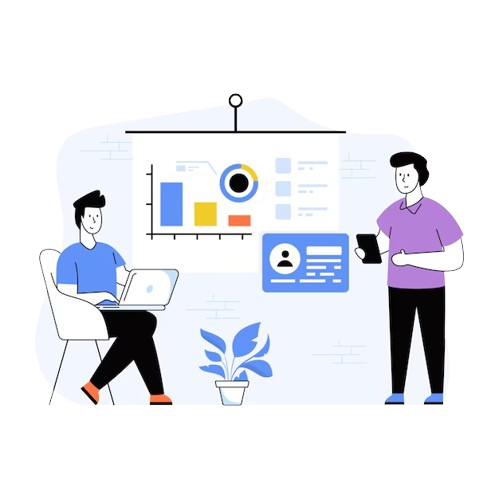
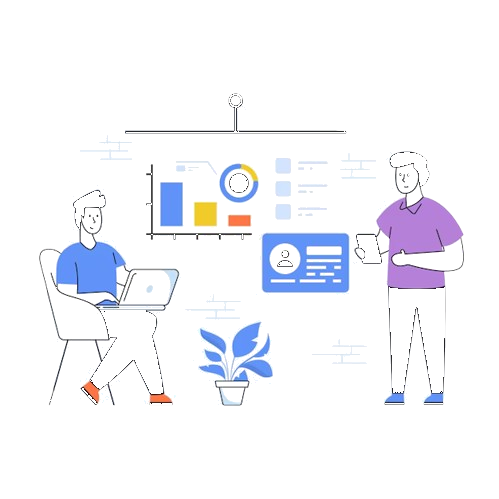
Refactor About and Overview sections to improve visual consistency and responsiveness. Update image sources and styles for better alignment with branding. Enhance CSS for new visual elements and adjust layout for improved user experience across devices.

diff --git a/public/assets/css/ogaalsan-home.css b/public/assets/css/ogaalsan-home.css
@@ -980,10 +980,170 @@ html[data-theme="dark"] .services-area-two .services-item-two:hover .services-co
 }
 
 /* Overview — ICT illustration */
-.overview-img-wrap--illustration img {
+.ogaalsan-overview-visual,
+.ogaalsan-about-visual {
+  position: relative;
+  display: flex;
+  align-items: center;
+  justify-content: center;
+  min-height: 420px;
+  padding: 20px 0 30px;
+}
+
+.ogaalsan-overview-visual__glow,
+.ogaalsan-about-visual__glow {
+  position: absolute;
+  inset: 6% 0 8%;
+  margin: 0 auto;
+  width: min(92%, 620px);
+  aspect-ratio: 1;
+  background: radial-gradient(
+    circle,
+    rgba(63, 169, 245, 0.22) 0%,
+    rgba(63, 169, 245, 0.08) 45%,
+    rgba(63, 169, 245, 0) 72%
+  );
+  border-radius: 50%;
+  pointer-events: none;
+  z-index: 0;
+}
+
+.ogaalsan-overview-visual__img,
+.ogaalsan-about-visual__img {
+  position: relative;
+  z-index: 1;
   width: 100%;
-  max-width: 580px;
+  max-width: 700px;
   height: auto !important;
-  border-radius: 0;
   object-fit: contain;
+  display: block;
+  margin: 0 auto;
+}
+
+.overview-img-wrap--illustration img,
+.about-img-seven-wrap--illustration img {
+  border-radius: 0;
+}
+
+.about-img-seven-wrap--illustration {
+  padding-bottom: 24px;
+}
+
+.ogaalsan-about-visual__badge.experience-wrap {
+  right: 12px;
+  bottom: 0;
+  min-height: auto;
+  max-width: 150px;
+  padding: 18px 14px;
+  border: none;
+  border-radius: 16px;
+  box-shadow: 0 14px 36px rgba(34, 66, 143, 0.2);
+}
+
+.ogaalsan-about-visual__badge.experience-wrap .title {
+  font-size: 44px;
+  margin-bottom: 6px;
+}
+
+.ogaalsan-about-visual__badge.experience-wrap p {
+  font-size: 15px;
+  line-height: 1.3;
+}
+
+.ogaalsan-overview-visual__icon.icon {
+  right: 24px;
+  top: 24px;
+  width: 88px;
+  height: 88px;
+  font-size: 42px;
+  box-shadow: 0 12px 28px rgba(34, 66, 143, 0.18);
+}
+
+.ogaalsan-about-content .section-title .sub-title,
+.ogaalsan-about-content .section-title .title {
+  margin-bottom: 0;
+}
+
+.ogaalsan-about-content > p {
+  color: #4a5b73;
+  line-height: 1.75;
+}
+
+.ogaalsan-about-pillars .list-wrap {
+  gap: 16px;
+}
+
+.ogaalsan-about-pillars .list-wrap li {
+  flex: 1 1 calc(50% - 8px);
+  min-width: 0;
+  background: linear-gradient(135deg, #f8faff 0%, #ffffff 100%);
+  border: 1px solid rgba(63, 169, 245, 0.16);
+  box-shadow: 0 10px 28px rgba(34, 66, 143, 0.07);
+  padding: 22px 18px;
+  border-radius: 14px;
+}
+
+.ogaalsan-about-pillars .list-wrap li .content .count {
+  font-size: 28px;
+  color: #22428f;
+  margin-bottom: 4px;
+}
+
+.ogaalsan-about-pillars .list-wrap li .content p {
+  margin-bottom: 0;
+  color: #4a5b73;
+  font-size: 14px;
+}
+
+.ogaalsan-about-content .info-two {
+  color: #4a5b73;
+  line-height: 1.75;
+}
+
+html[data-theme="dark"] .ogaalsan-about-pillars .list-wrap li {
+  background: linear-gradient(135deg, #152033 0%, #121a2a 100%);
+  border-color: rgba(63, 169, 245, 0.22);
+  box-shadow: 0 10px 28px rgba(0, 0, 0, 0.28);
+}
+
+html[data-theme="dark"] .ogaalsan-about-pillars .list-wrap li .content .count {
+  color: #7ec8f8;
+}
+
+html[data-theme="dark"] .ogaalsan-about-content > p,
+html[data-theme="dark"] .ogaalsan-about-content .info-two,
+html[data-theme="dark"] .ogaalsan-about-pillars .list-wrap li .content p {
+  color: #c8d4e8 !important;
+}
+
+@media (max-width: 991px) {
+  .ogaalsan-overview-visual__img,
+  .ogaalsan-about-visual__img {
+    max-width: 560px;
+  }
+
+  .ogaalsan-about-visual__badge.experience-wrap {
+    right: 50%;
+    transform: translateX(50%);
+    bottom: -8px;
+  }
+}
+
+@media (max-width: 575px) {
+  .ogaalsan-overview-visual__img,
+  .ogaalsan-about-visual__img {
+    max-width: 100%;
+  }
+
+  .ogaalsan-about-pillars .list-wrap li {
+    flex: 1 1 100%;
+  }
+
+  .ogaalsan-overview-visual__icon.icon {
+    width: 72px;
+    height: 72px;
+    font-size: 34px;
+    right: 12px;
+    top: 12px;
+  }
 }

diff --git a/pages/about.js b/pages/about.js
@@ -11,41 +11,22 @@ export default function About() {
             <div className="container">
               <div className="row align-items-center justify-content-center">
                 <div className="col-lg-6 col-md-9 order-0 order-lg-2">
-                  <div className="about-img-seven-wrap">
+                  <div className="about-img-seven-wrap about-img-seven-wrap--illustration ogaalsan-about-visual">
+                    <div className="ogaalsan-about-visual__glow" aria-hidden="true" />
                     <Image
-                      src="/assets/img/ogalsan/person.jpg"
-                      alt=""
-                      width={600}
-                      height={800}
-                      style={{ maxWidth: "100%", height: "auto" }}
+                      src="/assets/img/images/about.png"
+                      alt="About OgaalSan Consultancy"
+                      width={760}
+                      height={760}
+                      className="ogaalsan-about-visual__img"
                       data-aos="fade-right"
                       data-aos-delay={0}
                       loading="lazy"
                     />
-                    <Image
-                      src="/assets/img/ogalsan/creative.jpg"
-                      alt=""
-                      width={300}
-                      height={400}
-                      style={{ maxWidth: "300px", height: "auto" }}
-                      data-aos="fade-up"
-                      data-aos-delay={300}
-                      loading="lazy"
-                    />
-                    <Image
-                      src="/assets/img/images/inner_about_shape01.png"
-                      alt=""
-                      width={200}
-                      height={200}
-                      className="shape"
-                      data-aos="zoom-in"
-                      data-aos-delay={500}
-                      loading="lazy"
-                    />
                     <div
-                      className="experience-wrap"
-                      data-aos="fade-left"
-                      data-aos-delay={0}
+                      className="experience-wrap ogaalsan-about-visual__badge"
+                      data-aos="fade-up"
+                      data-aos-delay={200}
                     >
                       <h2 className="title">3</h2>
                       <p>Core Service Areas</p>
@@ -53,7 +34,7 @@ export default function About() {
                   </div>
                 </div>
                 <div className="col-lg-6">
-                  <div className="about-content-seven">
+                  <div className="about-content-seven ogaalsan-about-content">
                     <div className="section-title mb-30">
                       <span className="sub-title">Who We Are</span>
                       <h2 className="title">
@@ -70,7 +51,7 @@ export default function About() {
                       thrive in an increasingly digital and
                       knowledge-driven economy.
                     </p>
-                    <div className="success-wrap-two">
+                    <div className="success-wrap-two ogaalsan-about-pillars">
                       <ul className="list-wrap">
                         <li>
                           <div className="icon">

diff --git a/components/sections/home/About.js b/components/sections/home/About.js
@@ -7,41 +7,22 @@ export default function About() {
       <div className="container">
         <div className="row align-items-center justify-content-center">
           <div className="col-lg-6 col-md-9 order-0 order-lg-2">
-            <div className="about-img-seven-wrap">
+            <div className="about-img-seven-wrap about-img-seven-wrap--illustration ogaalsan-about-visual">
+              <div className="ogaalsan-about-visual__glow" aria-hidden="true" />
               <Image
-                src="/assets/img/ogalsan/person.jpg"
-                alt=""
-                width={600}
-                height={365}
-                style={{ maxWidth: "100%", height: "auto", objectFit: "cover" }}
+                src="/assets/img/images/about.png"
+                alt="About OgaalSan Consultancy"
+                width={760}
+                height={760}
+                className="ogaalsan-about-visual__img"
                 data-aos="fade-right"
                 data-aos-delay={0}
                 loading="lazy"
               />
-              <Image
-                src="/assets/img/ogalsan/creative.jpg"
-                alt=""
-                width={300}
-                height={200}
-                style={{ maxWidth: "300px", height: "auto", objectFit: "cover" }}
-                data-aos="fade-up"
-                data-aos-delay={300}
-                loading="lazy"
-              />
-              <Image
-                src="/assets/img/images/inner_about_shape01.png"
-                alt=""
-                width={200}
-                height={200}
-                className="shape"
-                data-aos="zoom-in"
-                data-aos-delay={500}
-                loading="lazy"
-              />
               <div
-                className="experience-wrap"
-                data-aos="fade-left"
-                data-aos-delay={0}
+                className="experience-wrap ogaalsan-about-visual__badge"
+                data-aos="fade-up"
+                data-aos-delay={200}
               >
                 <h2 className="title">3</h2>
                 <p>Core Service Areas</p>
@@ -49,7 +30,7 @@ export default function About() {
             </div>
           </div>
           <div className="col-lg-6">
-            <div className="about-content-seven">
+            <div className="about-content-seven ogaalsan-about-content">
               <div className="section-title mb-30">
                 <Link href="/about" className="sub-title">
                   About
@@ -68,7 +49,7 @@ export default function About() {
                 thrive in an increasingly digital and
                 knowledge-driven economy.
               </p>
-              <div className="success-wrap-two">
+              <div className="success-wrap-two ogaalsan-about-pillars">
                 <ul className="list-wrap">
                   <li>
                     <div className="icon">

diff --git a/components/sections/home/Overview.js b/components/sections/home/Overview.js
@@ -9,20 +9,17 @@ export default function Overview() {
                 <div className="container">
                     <div className="row align-items-center justify-content-center">
                         <div className="col-lg-6 col-md-10">
-                            <div className="overview-img-wrap overview-img-wrap--illustration">
+                            <div className="overview-img-wrap overview-img-wrap--illustration ogaalsan-overview-visual">
+                                <div className="ogaalsan-overview-visual__glow" aria-hidden="true" />
                                 <Image
                                     src="/assets/img/images/ict.png"
                                     alt="ICT and digital consultancy illustration"
-                                    width={620}
-                                    height={620}
+                                    width={760}
+                                    height={760}
+                                    className="ogaalsan-overview-visual__img"
                                     loading="lazy"
-                                    style={{
-                                        width: "100%",
-                                        maxWidth: "580px",
-                                        height: "auto",
-                                    }}
                                 />
-                                <div className="icon">
+                                <div className="icon ogaalsan-overview-visual__icon">
                                     <i className="flaticon-report-1" />
                                 </div>
                             </div>
